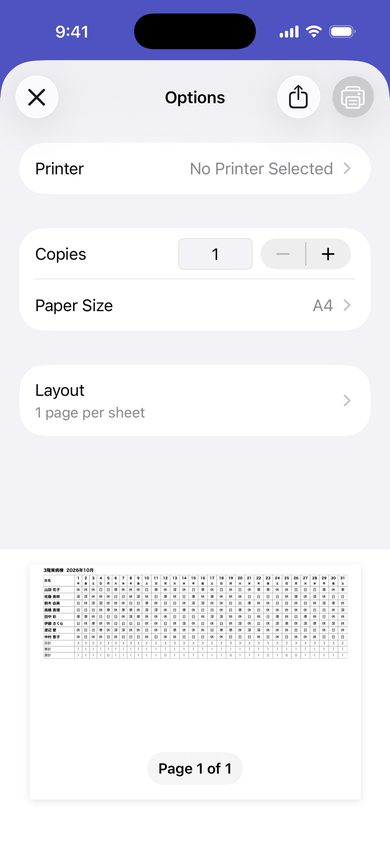
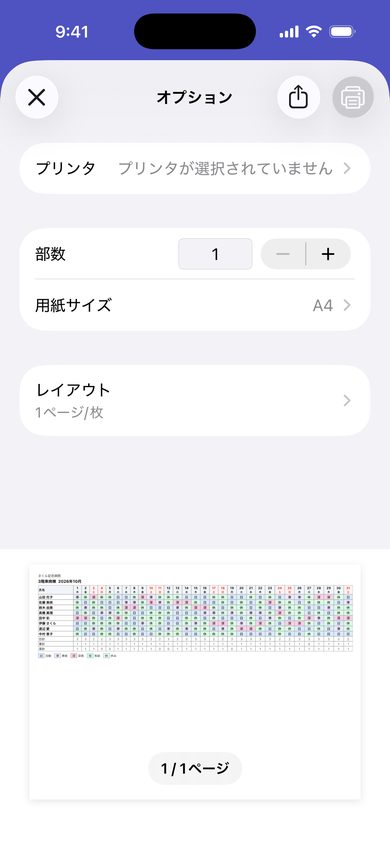
nurseshift guide: retaken screenshots for build 11 + text for new features
Claude-Session: https://claude.ai/code/session_016HpZfqp4HH4Ds16QVgaXC7

diff --git a/nurseshift/guide.html b/nurseshift/guide.html
@@ -69,20 +69,20 @@ li{color:var(--sub);font-size:14px;margin-bottom:4px}
     </section>
     <section id="s2">
       <h2><span class="num">2</span>スタッフを登録する</h2>
-      <div class="txt"><p>「スタッフ」タブで<strong>右下の＋ボタン</strong>を押し、1人ずつ追加します。</p>
+      <div class="txt"><p>「スタッフ」タブで<strong>右下の＋ボタン</strong>を押し、1人ずつ追加します。夜勤なしの人は「夜勤可」をオフにすると、夜勤上限の欄は消えます。</p>
 <ul><li><strong>夜勤可</strong>: 夜勤に入れる人はオン</li><li><strong>リーダー</strong>: 日勤・夜勤のリーダーができる人はオン（各勤務に1人は入るように組みます）</li><li><strong>新人</strong>: 1〜2年目。新人だけの勤務にならないよう配慮します</li><li><strong>月夜勤上限</strong>: その人が月に入れる夜勤の最大回数</li></ul>
 <div class="tip">自動作成は<strong>5名以上</strong>が目安です。人数やリーダーが足りないと、作成時に「事前チェック」で不足をお知らせします。</div></div>
       <div class="shots2"><figure class="shot"><img src="img/03_staff_list.jpg" alt="登録したスタッフの一覧。L＝リーダー、新＝新人、夜×＝夜勤なし" loading="lazy" width="390" height="848"><figcaption>登録したスタッフの一覧。L＝リーダー、新＝新人、夜×＝夜勤なし</figcaption></figure><figure class="shot"><img src="img/04_staff_edit.jpg" alt="スタッフの編集画面" loading="lazy" width="390" height="848"><figcaption>スタッフの編集画面</figcaption></figure></div>
     </section>
     <section id="s3">
       <h2><span class="num">3</span>勤務区分と必要人数を確認する</h2>
-      <div class="txt"><p>「勤務区分」タブには、日勤・準夜・深夜・有給・休みが最初から入っています。勤務をタップすると、時刻と<strong>曜日ごとの必要人数（最低・最大）</strong>、経験年数ごとの人数を変えられます。</p>
+      <div class="txt"><p>「勤務区分」タブには、日勤・準夜・深夜・有給・休みが最初から入っています。勤務をタップすると、時刻、<strong>曜日ごとの必要人数（最低・最大）</strong>、経験年数ごとの人数、<strong>「リーダーを必ず1人入れる」</strong>のオン／オフを変えられます。リーダーができる人が少ない病棟では、夜勤のリーダー必須をオフにすると組みやすくなります。</p>
 <div class="tip">必要人数を多くしすぎると、組めない日が増えます。まずは実際に必要な最低人数から始めるのがおすすめです。</div></div>
       <div class="shots2"><figure class="shot"><img src="img/05_shift_types.jpg" alt="勤務区分の一覧" loading="lazy" width="390" height="848"><figcaption>勤務区分の一覧</figcaption></figure><figure class="shot"><img src="img/06_shift_type_edit.jpg" alt="曜日ごとの必要人数を設定" loading="lazy" width="390" height="848"><figcaption>曜日ごとの必要人数を設定</figcaption></figure></div>
     </section>
     <section id="s4">
       <h2><span class="num">4</span>希望休・固定したい勤務を入れる</h2>
-      <div class="txt"><p>「シフト表」タブで、スタッフと日付のマスを<strong>長押し</strong>します。勤務（休みなど）を選んで、</p>
+      <div class="txt"><p>「シフト表」タブで、スタッフと日付のマスを<strong>長押し</strong>します（空のマスでもOK）。出てきた一覧から勤務（休み・日勤など）を選び、</p>
 <ul><li><strong>✓ 必須（必ず通す）</strong>: 必ずその勤務にする</li><li><strong>〜 希望（なるべく通す）</strong>: できるだけその勤務にする</li></ul>
 <p>を選びます。必須は緑、希望は青の枠で表示されます。</p></div>
       <div class="shots2"><figure class="shot"><img src="img/07_grid_empty.jpg" alt="作成前のシフト表" loading="lazy" width="390" height="848"><figcaption>作成前のシフト表</figcaption></figure><figure class="shot"><img src="img/08_request_modal.jpg" alt="マスを長押しして必須／希望を登録" loading="lazy" width="390" height="848"><figcaption>マスを長押しして必須／希望を登録</figcaption></figure></div>
@@ -91,7 +91,7 @@ li{color:var(--sub);font-size:14px;margin-bottom:4px}
       <h2><span class="num">5</span>「作成」を押す</h2>
       <div class="txt"><p>右上の<strong>「作成」</strong>を押すと、下の「守っているきまり」を守りながら自動でシフトを組みます（人数によって数秒〜十数秒）。</p>
 <p>守りきれなかったことがあれば、表の下に<strong>「制約違反」</strong>として理由と必要な対策が表示されます。</p>
-<p>作成後はマスを<strong>タップ</strong>するたびに勤務が切り替わるので、そのまま手直しできます。手直ししたマスは、もう一度「作成」しても残ります。「‹ ›」で月を切り替えられます。</p></div>
+<p>作成後はマスを<strong>タップ</strong>するたびに勤務が切り替わるので、そのまま手直しできます。手直ししたマスには<strong>オレンジの三角</strong>が付き、違反の一覧もすぐ再チェックされます。もう一度「作成」しても手直しは残ります。「‹ ›」で月を切り替えられます（表は月ごとに保存）。</p></div>
       <div class="shots2"><figure class="shot"><img src="img/09_grid_created.jpg" alt="作成後のシフト表。下に日ごとの人数合計" loading="lazy" width="390" height="848"><figcaption>作成後のシフト表。下に日ごとの人数合計</figcaption></figure><figure class="shot"><img src="img/10_violations.jpg" alt="守れなかった点と対策が表示される" loading="lazy" width="390" height="848"><figcaption>守れなかった点と対策が表示される</figcaption></figure></div>
     </section>
     <section id="s6">
@@ -110,7 +110,7 @@ li{color:var(--sub);font-size:14px;margin-bottom:4px}
     </section>
     <section id="s7">
       <h2><span class="num">7</span>印刷する</h2>
-      <div class="step"><div class="txt"><p>「印刷」を押すと、AirPrint対応のプリンターにそのまま印刷できます。プリンターとiPhoneが同じWi-Fiにつながっていれば、インターネットは不要です。印刷画面からPDFとして保存・共有もできます。</p></div><figure class="shot"><img src="img/13_print_preview.jpg" alt="印刷プレビュー" loading="lazy" width="390" height="848"><figcaption>印刷プレビュー</figcaption></figure></div>
+      <div class="step"><div class="txt"><p>「印刷」を押すと、<strong>A4横・勤務ごとの色分け</strong>で、病院名・病棟名・凡例つきで印刷できます（AirPrint対応プリンター）。プリンターとiPhoneが同じWi-Fiにつながっていれば、インターネットは不要です。印刷画面からPDFとして保存・共有もできます。</p></div><figure class="shot"><img src="img/13_print_preview.jpg" alt="印刷プレビュー" loading="lazy" width="390" height="848"><figcaption>印刷プレビュー</figcaption></figure></div>
     </section>
     <section id="faq">
       <h2>困ったとき</h2>
